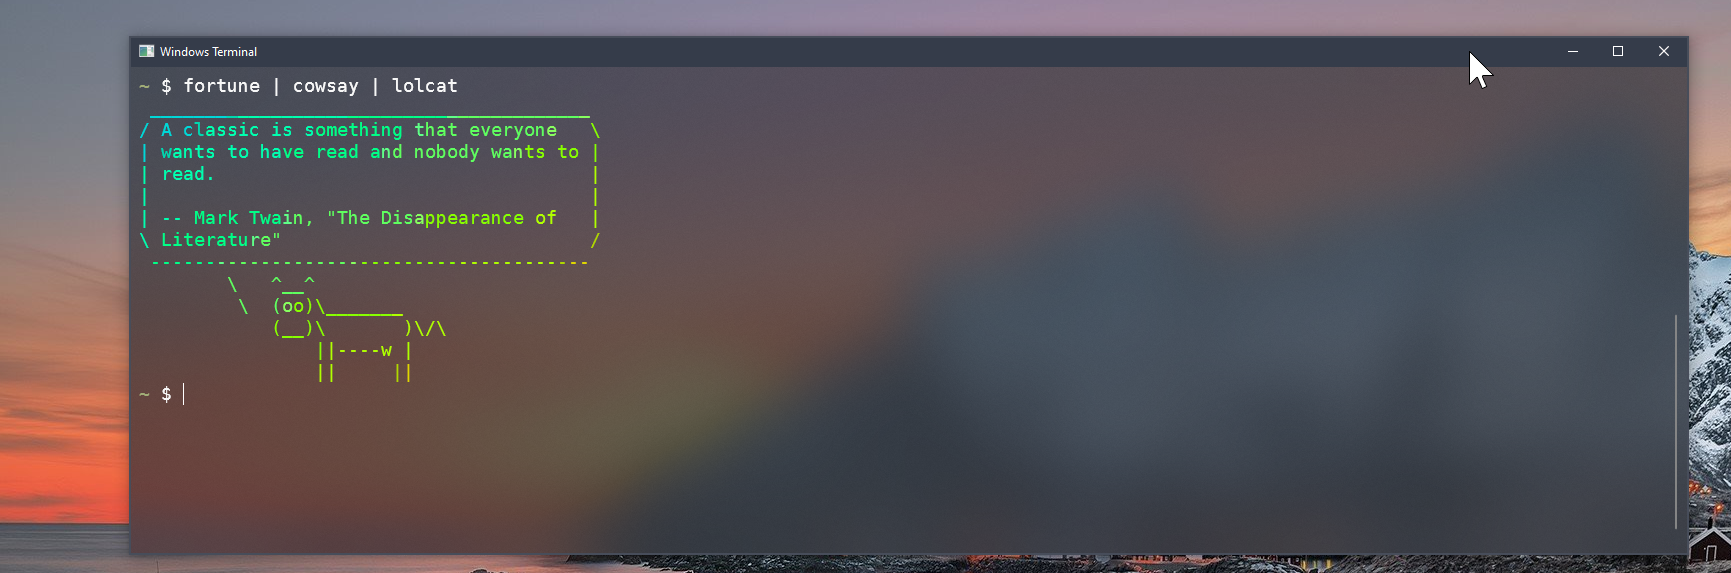
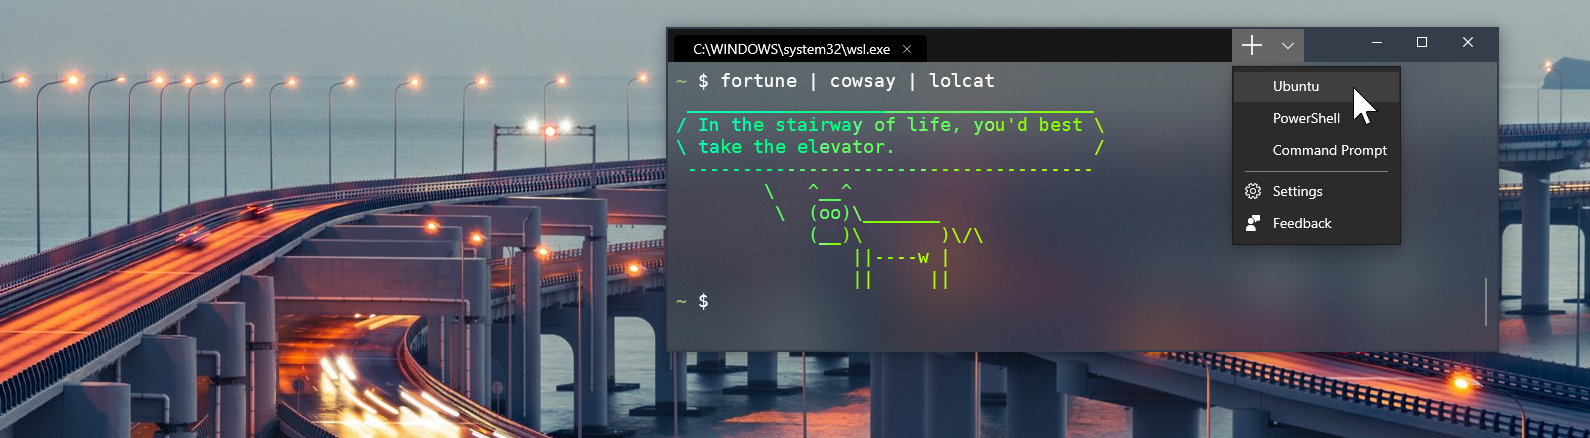
Gentle changes

diff --git a/prereqs/terminal.md b/prereqs/terminal.md
@@ -15,13 +15,13 @@ excerpt: Build and deploy the new open sourced Windows Terminal
 
 ## Windows Terminal
 
-There was a great announcement from Build 2019 for the new Windows Terminal app, that is open sourced and available on [GitHub](https://github.com/microsoft/terminal) and brings with it a host of new features.
+One of the most unexpected announcements from Build 2019 was for the new Windows Terminal app.  This will run as a separate project alongside the existing console host used by Command Prompt, PowerShell and WSL distros, although they will use some shared components. The whole project is open sourced and you can find it  on [GitHub](https://github.com/microsoft/terminal).  If you want to know more about the new Terminal and how it differs from an architectural perspective then watch the excellent [Ready session](https://mybuild.techcommunity.microsoft.com/sessions/77004) from Rich Turner and Michael Niksa.
 
-Given the runaway success of Visual Studio Code, we are excited about this.  And given the amount of work we do at the CLI then we wanted to see how it compared to using the WSL Ubuntu terminal or Hyper.
+Given the runaway success of Visual Studio Code, we are excited about this.  And given the amount of work we do at the CLI then we naturally wanted to see how it compared to using the standard WSL Ubuntu terminal, or one of our other third party favourites, [Hyper](https://hyper.is/).
 
-Windows Terminal should be coming out later in the year and will be a nice simple download from the Microsoft Store.
+Windows Terminal should be coming out later in the year and at that point it will be a nice simple download from the Microsoft Store.
 
-Those of you who are a little more technical and a little less patient can try to follow the instructions below.
+However, those of you who are a little more technical and a little less patient can get it working earlier by following the instructions below.
 
 ## Pre-reqs
 
@@ -84,13 +84,13 @@ I first installed my preferred Powerline font, [DejaVu Sans Mono](https://github
     "initialRows": 30,
     "initialCols": 120,
     "alwaysShowTabs": false,
-    "showTerminalTitleInTitlebar": false,
-    "experimental_showTabsInTitlebar": false,
+    "showTerminalTitleInTitlebar": true,
+    "experimental_showTabsInTitlebar": true,
     "profiles": [
         {
             "startingDirectory": "",
             "guid": "{6691901c-764a-11e9-b9c0-bc838515ccd4}",
-            "name": "WSL",
+            "name": "Ubuntu",
             "colorscheme": "Relaxed",
             "historySize": 9001,
             "snapOnInput": true,
@@ -99,7 +99,7 @@ I first installed my preferred Powerline font, [DejaVu Sans Mono](https://github
             "commandline": "wsl.exe ~",
             "fontFace": "DejaVu Sans Mono for Powerline",
             "fontSize": 14,
-            "acrylicOpacity": 0.7,
+            "acrylicOpacity": 0.5,
             "useAcrylic": true,
             "closeOnExit": true,
             "padding": "8, 8, 8, 8"
@@ -125,7 +125,7 @@ I first installed my preferred Powerline font, [DejaVu Sans Mono](https://github
         {
             "startingDirectory": "%USERPROFILE%",
             "guid": "{e5c4a7b9-bd87-416d-9506-877ab7c8722b}",
-            "name": "cmd",
+            "name": "Command Prompt",
             "colorscheme": "Campbell",
             "historySize": 9001,
             "snapOnInput": true,
